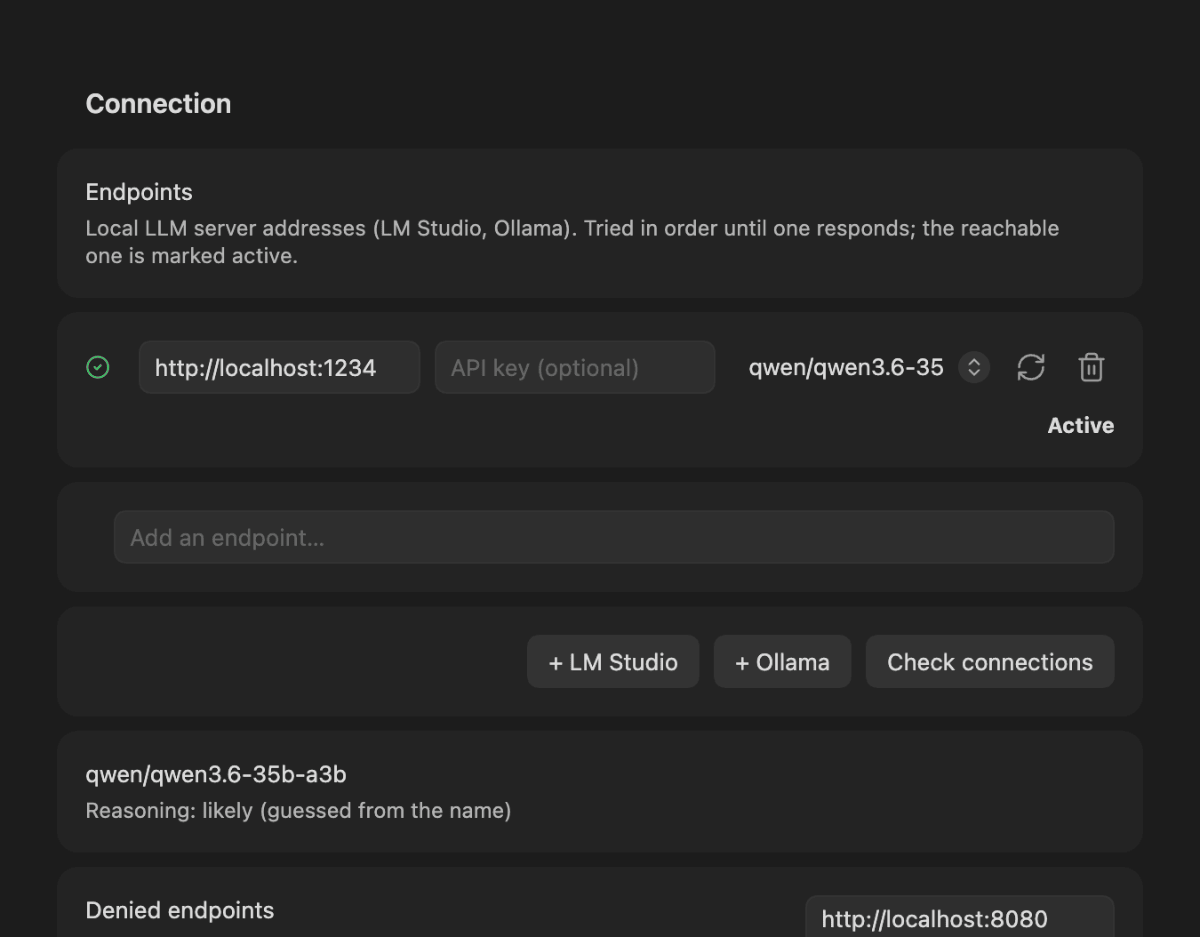
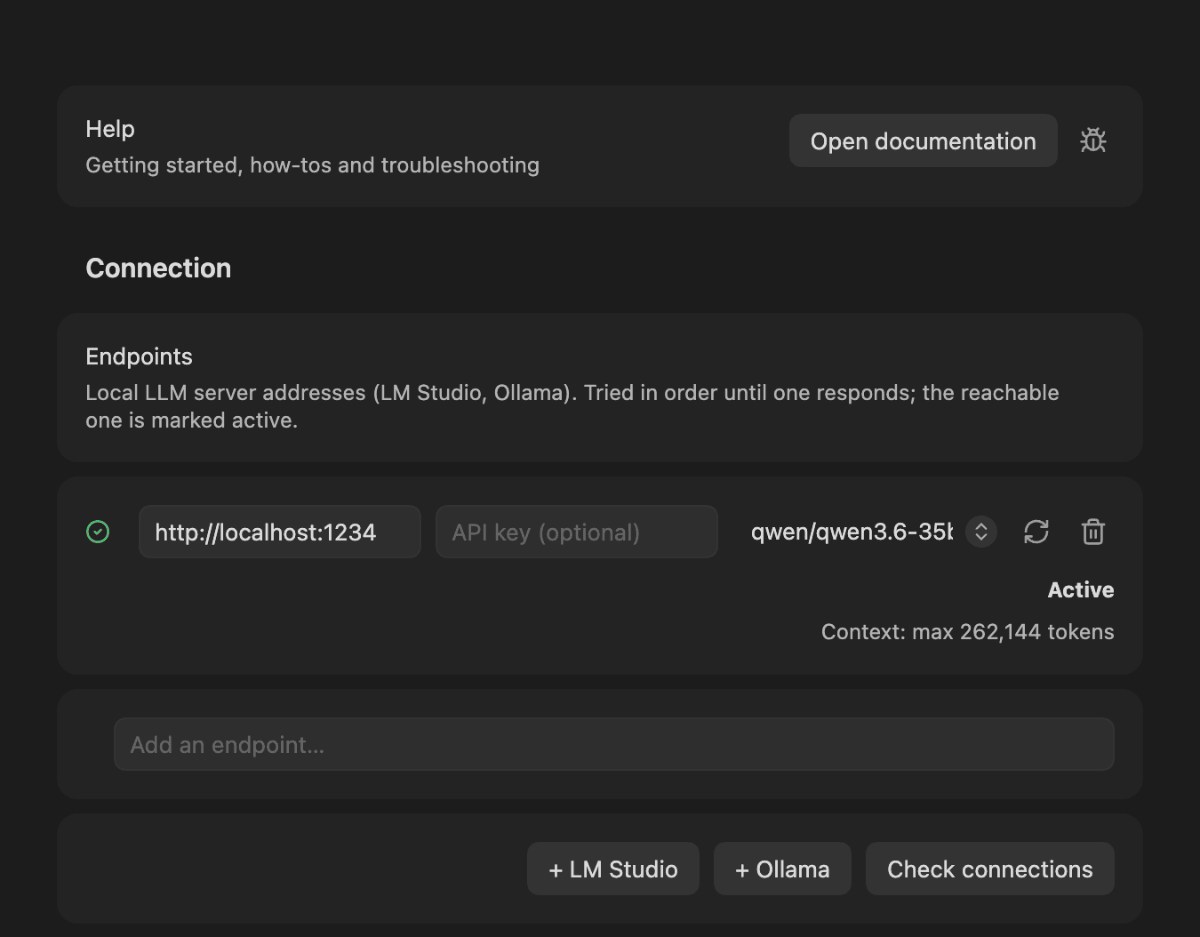
test(smoke): Referenztreiber auf bilanz.ts (vier Zustände, Exit 1 bei nichts gemessen), bereiteInstanzVor; Einstellungsbild neu
createBilanz/parseArgs/runDriver statt eigener Zähler; die drei "nichts gemessen"-Punkte (Pop-out,
echtes Modell, Einstellungen-Fenster) sind jetzt unmeasured (Exit 1). Der Restricted-Mode-Code ist
bereiteInstanzVor mit nurVault. Vorher/nachher: 68 grün / 0 rot / 0 übersprungen / 0 nichts gemessen;
Gegenprobe mit ausgefallenem Echt-Modell: 67 grün / 1 nichts gemessen, Exit 1.
settings-endpoints.png zeigt die Kontextlänge unter der Zeile.

diff --git a/scripts/gui-smoke.ts b/scripts/gui-smoke.ts
@@ -46,48 +46,35 @@
 
 import { createServer, type Server } from "node:http";
 import { copyFileSync, existsSync, readFileSync, rmSync, writeFileSync } from "node:fs";
-import { attachTo, Cdp, clearNotices, notices, pollUntil, requireVisible, vaultName } from "../../tools/obsidian-cdp/cdp.js";
+import { attachTo, bereiteInstanzVor, Cdp, clearNotices, notices, pollUntil, requireVisible } from "../../tools/obsidian-cdp/cdp.js";
+import { createBilanz, parseArgs, runDriver, Vorbedingung } from "../../tools/obsidian-cdp/bilanz.js";
 import { capture } from "../../tools/obsidian-cdp/shot.js";
 
 const PLUGIN_ID = "vault-crews";
 
-const args = process.argv.slice(2);
-const argOf = (name: string, fallback: string): string => {
-  const i = args.indexOf(`--${name}`);
-  const value = i >= 0 ? args[i + 1] : undefined;
-  return value ?? fallback;
-};
-const PORT = Number(argOf("port", "9222"));
-const VAULT = args.includes("--vault") ? argOf("vault", "") : undefined;
-const KEEP = args.includes("--keep");
+const args = parseArgs(process.argv.slice(2));
+const PORT = Number(args.value("port") ?? "9222");
+const VAULT = args.has("vault") ? (args.value("vault") ?? "") : undefined;
+const KEEP = args.has("keep");
 
 // --- Prüfpunkte --------------------------------------------------------------
 
-interface Check {
-  name: string;
-  passed: boolean;
-  detail: string;
-  skipped?: boolean;
-}
-const checks: Check[] = [];
+// Bilanz in vier Zuständen (grün · rot · übersprungen · nichts gemessen), Exit 1 bei Rot ODER
+// nichts gemessen (Modul `tools/obsidian-cdp/bilanz.ts`, CORE-TEST-19). Die Aufrufstellen behalten
+// ihre Form: `record(name, passed, detail)`, `skipped(name, grund)` und neu `unmeasured(name, grund)`.
+const bilanz = createBilanz();
+const record = (name: string, passed: boolean, detail: string): void => bilanz.record(name, passed, detail);
+/** Der Punkt ist nicht anwendbar (z. B. ein echter Manager ist geladen) — mit Grund, aber nichts gemessen. */
+const skipped = (name: string, reason: string): void => bilanz.skipped(name, reason);
+/** Der Gegenstand des Punkts wurde nicht erreicht (Vorbedingung fehlt) — „nichts gemessen", nie grün. */
+const unmeasured = (name: string, reason: string): void => bilanz.unmeasured(name, reason);
 
-function record(name: string, passed: boolean, detail: string): void {
-  checks.push({ name, passed, detail });
-  console.log(`${passed ? "✓" : "✗"} ${name} — ${detail}`);
-}
-
-function skipped(name: string, reason: string): void {
-  checks.push({ name, passed: true, skipped: true, detail: `übersprungen: ${reason}` });
-  console.log(`· ${name} — übersprungen: ${reason}`);
-}
-
-/** Verletzte Umgebungsbedingung — KEIN Befund am Prüfling.
+/** Verletzte Umgebungsbedingung (Klasse `Vorbedingung` des Moduls `bilanz`) — KEIN Befund am Prüfling.
  *
  *  Der Unterschied ist die halbe Regel (CORE-TEST-02 g): „antwortet nicht" ist die fehlende
  *  Umgebung und bricht mit Ansage ab; „antwortet falsch" ist ein Befund und bleibt rot. Wer
  *  beides zusammenwirft, verbucht den gesuchten Defekt als Nichtmessung — dann läuft die
  *  Gegenprobe durch, ohne rot zu werden. */
-class PreconditionError extends Error {}
 
 // --- Helfer ------------------------------------------------------------------
 
@@ -767,7 +754,7 @@ async function w8Ausblenden(cdp: Cdp): Promise<void> {
       return leaf.view.containerEl.ownerDocument !== app.workspace.rootSplit.doc;`);
     try {
       if (!po) {
-        skipped("Welle 18 — Pop-out aktiv: Regel im Hauptfenster, nicht im Pop-out", "Pop-out-Fenster ließ sich nicht öffnen — nichts gemessen");
+        unmeasured("Welle 18 — Pop-out aktiv: Regel im Hauptfenster, nicht im Pop-out", "Pop-out-Fenster ließ sich nicht öffnen");
       } else {
         const popBlätter = `return window.__vcSmokePopout.view.containerEl.ownerDocument.adoptedStyleSheets.length;`;
         const vorherPop = await cdp.evaluate<number>(popBlätter);
@@ -984,7 +971,7 @@ async function w11ChatClient(cdp: Cdp): Promise<void> {
     const got = await pollUntil<{ done: boolean; skip?: string; model?: string; calls?: number; text?: string; content?: string; finish?: string }>(
       cdp, `return window.__vcW11?.done ? window.__vcW11 : null;`, 240_000, 1_000).catch(() => null);
     if (!got || got.skip) {
-      skipped(P_STREAM, `${got?.skip ?? "keine Antwort in 240 s"} — nichts gemessen`);
+      unmeasured(P_STREAM, got?.skip ?? "keine Antwort in 240 s");
     } else {
       record(P_STREAM,
         (got.calls ?? 0) > 1 && (got.content ?? "").length > 0 && got.content === got.text && got.finish !== "aborted",
@@ -1197,7 +1184,7 @@ async function w14Body(cdp: Cdp): Promise<void> {
 async function w14Abschnitt(cdp: Cdp): Promise<void> {
   const name = "N1 Abschnitt Request";
   const ui = await einstellungenOeffnen(cdp);
-  if (!ui) { skipped(name, "kein Einstellungen-Fenster am Port — nichts gemessen"); return; }
+  if (!ui) { unmeasured(name, "kein Einstellungen-Fenster am Port"); return; }
   const kopf = `
     const wurzel = document.querySelector(".modal.mod-settings") ?? document.body;
     const kopf = [...wurzel.querySelectorAll(".okit-collapsible-header")].find((h) => /^(Request|Anfrage)$/.test(h.textContent.trim()));
@@ -1521,20 +1508,14 @@ async function main(): Promise<void> {
   let aktiv = await cdp.evaluate<boolean>(
     `return Boolean(app.plugins.plugins[${JSON.stringify(PLUGIN_ID)}]);`,
   );
-  // Ein frisch gebauter Staging-Vault startet im Restricted Mode: Community-Plugins sind aus,
-  // die community-plugins.json des Fixtures hebt das nicht auf, und weder `npm run deploy` noch
-  // ein Reload helfen. Der Treiber schaltet deshalb selbst frei — aber NUR im eigenen
-  // Staging-Vault (heisst wie das Repo); in einem fremden Vault waere das ein Eingriff in den
-  // Wirt, dort bleibt es beim Abbruch mit Ansage. (Vorbild obsidian-letterhead/scripts/gui-smoke.ts.)
-  if (!aktiv && (await vaultName(cdp)) === PLUGIN_ID) {
-    aktiv = await cdp.evaluate<boolean>(`
-      try {
-        if (app.plugins.setEnable) await app.plugins.setEnable(true);
-        await app.plugins.enablePluginAndSave(${JSON.stringify(PLUGIN_ID)});
-        await new Promise((r) => setTimeout(r, 1200));
-      } catch (e) { /* Abbruchmeldung unten nennt den Zustand */ }
-      return Boolean(app.plugins.plugins[${JSON.stringify(PLUGIN_ID)}]);
-    `);
+  // Ein frisch gebauter Staging-Vault startet im Restricted Mode (und ein frisches Profil fragt
+  // „Dem Ersteller vertrauen"): `bereiteInstanzVor` der zentralen Brücke bestätigt den Dialog und
+  // schaltet frei — aber NUR im eigenen Staging-Vault (heißt wie das Repo, `nurVault`); in einem
+  // fremden Vault wäre das ein Eingriff in den Wirt, dort bleibt es beim Abbruch mit Ansage.
+  if (!aktiv) {
+    const r = await bereiteInstanzVor(cdp, { pluginIds: [PLUGIN_ID], nurVault: PLUGIN_ID });
+    console.log(`Instanz vorbereitet: ${r.hinweis}`);
+    aktiv = r.plugins[PLUGIN_ID] === "geladen";
   }
   if (!aktiv) {
     console.error(
@@ -1554,7 +1535,7 @@ async function main(): Promise<void> {
     await requireVisible(cdp);
   } catch (e) {
     cdp.close();
-    throw new PreconditionError(e instanceof Error ? e.message : String(e));
+    throw new Vorbedingung(e instanceof Error ? e.message : String(e));
   }
 
   const basis = await cdp.evaluate<string>(`return app.vault.adapter.basePath;`);
@@ -1662,34 +1643,31 @@ async function main(): Promise<void> {
     }
     await cdp.evaluate(`app.setting.close(); return true;`).catch(() => undefined);
 
-    // Übersprungenes gehört IN die Abschlusszeile, nicht nur in die Zeile daneben: sonst
-    // wird aus „13/13 grün" beim Zitieren ein bestandener Smoke, obwohl ein Teil nie
-    // gemessen wurde.
-    const rot = checks.filter((c) => !c.passed);
-    const uebersprungen = checks.filter((c) => c.skipped);
-    const gemessen = checks.length - uebersprungen.length;
-    console.log(
-      `\n${gemessen - rot.length}/${gemessen} gemessene Prüfpunkte grün`
-      + (uebersprungen.length > 0 ? ` · ${uebersprungen.length} übersprungen` : ""),
-    );
-    for (const c of rot) console.log(`  ✗ ${c.name} — ${c.detail}`);
-    for (const c of uebersprungen) console.log(`  · ${c.name} — ${c.detail}`);
+    // Die Abschlusszeile trägt alle vier Zustände: ein übersprungener oder nie gemessener Punkt
+    // gehört IN sie, sonst wird aus „13/13 grün" beim Zitieren ein bestandener Smoke, obwohl ein
+    // Teil nie gemessen wurde. `abschluss()` setzt Exit 1 bei Rot ODER nichts gemessen.
+    const ende = bilanz.abschluss();
+    for (const p of bilanz.eintraege()) {
+      if (p.zustand === "rot" || p.zustand === "nichts-gemessen") console.log(`  ${p.name} — ${p.detail}`);
+    }
+    void ende;
     cdp.close();
     // Abmelden, sonst haengt ein SPAETES Signal (nach normalem Abschluss, cdp schon zu) den
     // Prozess in onAbortSignal an einer toten Verbindung auf.
     process.off("SIGINT", onAbortSignal);
     process.off("SIGTERM", onAbortSignal);
-    if (rot.length > 0) process.exitCode = 1;
   }
 }
 
-try {
-  await main();
-} catch (e) {
-  if (e instanceof PreconditionError) {
-    console.error(`\nAbbruch — Umgebungsbedingung nicht erfüllt:\n${e.message}`);
-    process.exitCode = 2;   // eigener Code: nicht gemessen ist nicht dasselbe wie durchgefallen
-  } else {
-    throw e;
+runDriver(async () => {
+  try {
+    await main();
+  } catch (e) {
+    if (e instanceof Vorbedingung) {
+      console.error(`\nAbbruch — Umgebungsbedingung nicht erfüllt:\n${e.message}`);
+      process.exitCode = 2;   // eigener Code: nicht gemessen ist nicht dasselbe wie durchgefallen
+    } else {
+      throw e;
+    }
   }
-}
+});

diff --git a/docs/images/README.md b/docs/images/README.md
@@ -13,7 +13,7 @@ Maintainers. Prüfung: `npm run shots:check`.
 | Datei | Klasse | referenziert von | muss zeigen |
 |---|---|---|---|
 | `hero.png` | hero | README.md, README.de.md | Das Run-Panel **während** eines Laufs: der Live-Text des Modells wächst mit, der aufklappbare „Thinking"-Bereich steht offen, die Statuszeile nennt den laufenden Task. Das ist der Unterschied zu einem Fortschrittsbalken — man sieht, **was** das Modell gerade schreibt. |
-| `settings-endpoints.png` | feature | README.md, README.de.md | Die Endpunkt-Liste in den Einstellungen: eine Zeile mit URL, API-Schlüssel und Modell-Auswahl, die Rolle daneben („aktiv"), darunter die Fähigkeiten des gewählten Modells. Belegt die Aussage der README, dass lokale und gehostete Anbieter in **einer** Fallback-Liste stehen dürfen. |
+| `settings-endpoints.png` | feature | README.md, README.de.md | Die Endpunkt-Liste in den Einstellungen: eine Zeile mit URL, API-Schlüssel und Modell-Auswahl, die Rolle daneben („aktiv"), darunter die Kontextlänge des Modells („Context: …"), darunter die Fähigkeiten des gewählten Modells. Belegt die Aussage der README, dass lokale und gehostete Anbieter in **einer** Fallback-Liste stehen dürfen. |
 | `crew-file.png` | feature | README.md, README.de.md | Eine Crew als das, was sie ist: eine Notiz. Frontmatter mit `crew-kind: team`, `write_scope` und den Tasks, darunter die erklärende Prosa. Zeigt, dass eine Crew editierbar ist, ohne das Plugin zu verlassen. |
 | `run-log.png` | feature | README.md, README.de.md | Das Protokoll eines Laufs (`run.md`) im Lesemodus: Status je Task, Dauer, Modell, und die Liste der geschriebenen Dateien. Belegt die Nachvollziehbarkeit, die die README zusagt. |
 | `history-undo.png` | feature | README.md, README.de.md | Der Verlauf-Tab des Panels mit dem letzten Lauf und dem **Rückgängig**-Knopf. Das Sicherheitsnetz ist das zweite Verkaufsargument des Plugins und stand bisher nur als Behauptung in der README. |

diff --git a/README.de.md b/README.de.md
@@ -170,7 +170,7 @@ Eigene Teams und Agenten zu schreiben ist schlichtes Markdown im Vault — siehe
 <img src="https://raw.githubusercontent.com/johannes-kaindl/vault-crews/main/docs/images/run-log.png" width="600" alt="Ein Lauf-Protokoll: Frontmatter mit status ok, undoable true, einem Write, einem LLM-Call, Dauer und Modell, darunter die Task-Abschnitte">
 
 
-<img src="https://raw.githubusercontent.com/johannes-kaindl/vault-crews/main/docs/images/settings-endpoints.png" width="600" alt="Die Verbindungs-Einstellungen: eine Endpunkt-Zeile mit URL, Schlüsselfeld und Modell-Auswahl, als aktiv markiert">
+<img src="https://raw.githubusercontent.com/johannes-kaindl/vault-crews/main/docs/images/settings-endpoints.png" width="600" alt="Die Verbindungs-Einstellungen: eine Endpunkt-Zeile mit URL, Schlüsselfeld und Modell-Auswahl, als aktiv markiert, darunter das Kontextfenster, das der Server meldet">
 
 ## Funktionsweise
 

diff --git a/README.md b/README.md
@@ -160,7 +160,7 @@ Endpoint and timeout changes take effect with the next run; no plugin reload is 
 <img src="https://raw.githubusercontent.com/johannes-kaindl/vault-crews/main/docs/images/run-log.png" width="600" alt="A run log note: frontmatter with status ok, undoable true, one write, one LLM call, duration and model, followed by the per-task sections">
 
 
-<img src="https://raw.githubusercontent.com/johannes-kaindl/vault-crews/main/docs/images/settings-endpoints.png" width="600" alt="The Connection settings: one endpoint row with URL, API key field and model dropdown, marked Active">
+<img src="https://raw.githubusercontent.com/johannes-kaindl/vault-crews/main/docs/images/settings-endpoints.png" width="600" alt="The Connection settings: one endpoint row with URL, API key field and model dropdown, marked Active, with the context window the server reports below it">
 
 ## How it works
 
